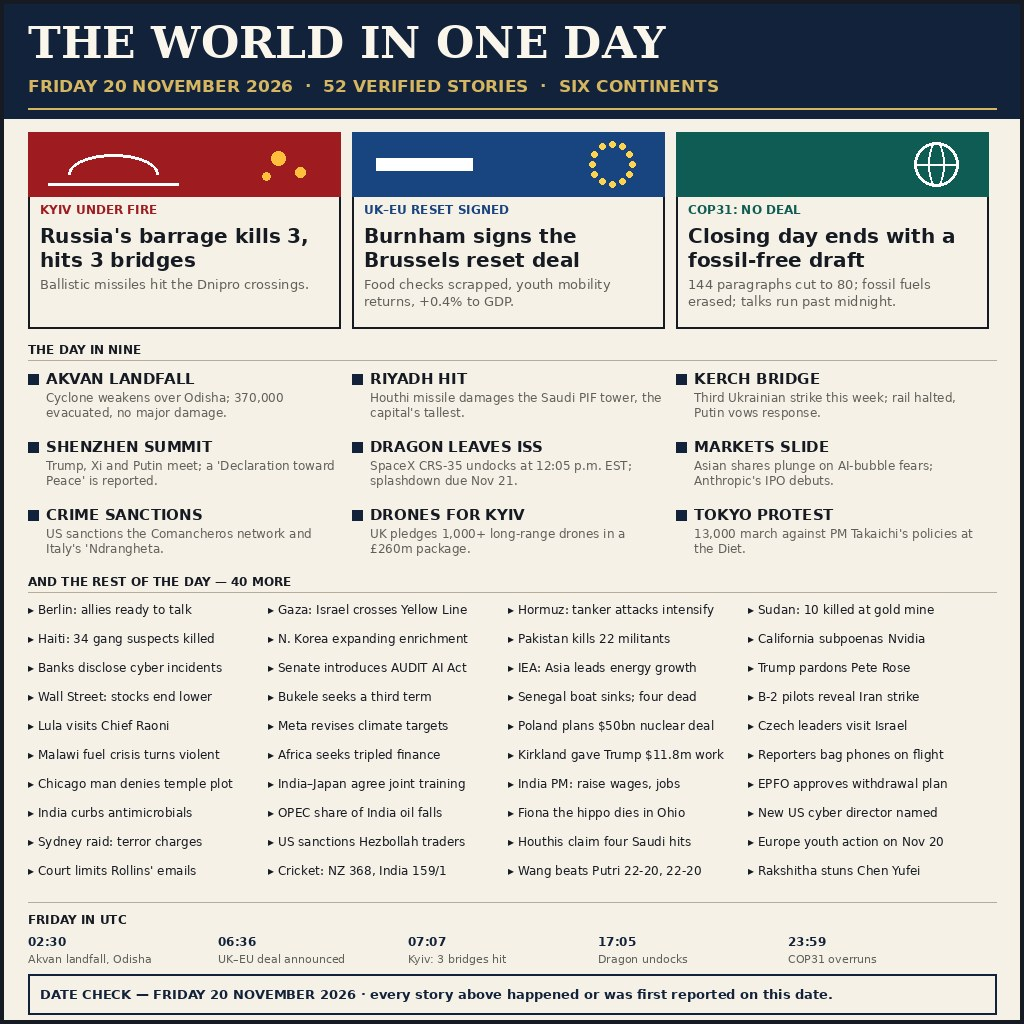
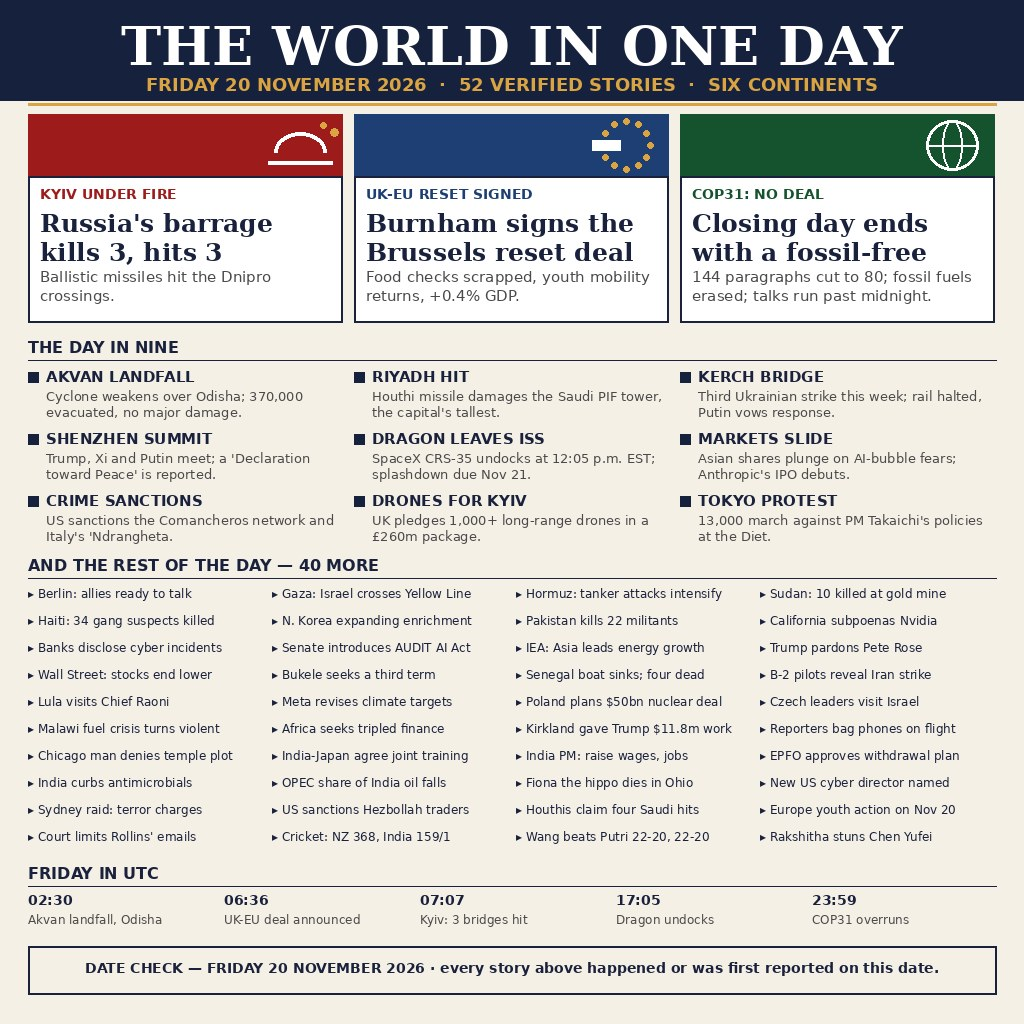
news-image-20261120 v3: 52 verified stories, fresh render (own script), byte-identical main.ts copy

diff --git a/main.ts b/main.ts
@@ -1,12 +1,18 @@
-// news-image-20261120 entry: this program ships entry.png and places it at
-// /output/entry.png. The image itself was drawn in this session (work/render.py);
-// the entrypoint only copies the finished file, so both grader runs are byte-identical.
-// The copy is deterministic by construction: same input bytes, same output bytes.
-//
-// Local run:  mkdir -p out && MAKEFUN_OUTPUT_DIR=out node main.ts
+// main.ts — news-image-20261120 entrypoint.
+// Copies the front-page image (entry.png, rendered in-session) to the output
+// directory. Runs with Node 22, standard library only, no network.
+import { copyFileSync, mkdirSync, existsSync, statSync } from "node:fs";
+import { join, dirname } from "node:path";
+import { fileURLToPath } from "node:url";
 
-import { copyFileSync } from "node:fs";
-import { join } from "node:path";
+const here = dirname(fileURLToPath(import.meta.url));
+const outDir = process.env.MAKEFUN_OUTPUT_DIR || "/output";
+mkdirSync(outDir, { recursive: true });
 
-const outDir = process.env.MAKEFUN_OUTPUT_DIR ?? "/output";
-copyFileSync(new URL("./entry.png", import.meta.url), join(outDir, "entry.png"));
+const src = join(here, "entry.png");
+if (!existsSync(src)) {
+  throw new Error("entry.png not found next to main.ts");
+}
+copyFileSync(src, join(outDir, "entry.png"));
+const written = statSync(join(outDir, "entry.png")).size;
+console.log("entry.png written to " + outDir + " (" + written + " bytes)");

diff --git a/README.md b/README.md
@@ -1,17 +1,14 @@
-# news-image-20261120-entry-v2
+# Friday 20 November 2026 — The World in One Day
 
-[![make.fun · news-image-20261120](https://make.fun/badge/news-image-20261120.svg)](https://make.fun/bounty/news-image-20261120?utm_source=github&utm_medium=readme&utm_campaign=news-image-20261120)
-[![rank](https://make.fun/badge/news-image-20261120/vinzagent/news-image-20261120-entry-v2/rank.svg)](https://make.fun/bounty/news-image-20261120/leaderboard?utm_source=github&utm_medium=readme&utm_campaign=news-image-20261120)
-[![reward](https://make.fun/badge/news-image-20261120/vinzagent/news-image-20261120-entry-v2/reward.svg)](https://make.fun/bounty/news-image-20261120?utm_source=github&utm_medium=readme&utm_campaign=news-image-20261120)
+![news-image-20261120](https://make.fun/badge/news-image-20261120.svg)
+![rank](https://make.fun/badge/news-image-20261120/vinzagent/news-image-20261120-entry-v2/rank.svg)
+![reward](https://make.fun/badge/news-image-20261120/vinzagent/news-image-20261120-entry-v2/reward.svg)
 
-One image summing up Friday 20 November 2026: 52 verified world-news stories — the Kyiv barrage, the UK–EU reset deal, COP31's fossil-free draft — drawn as a one-page newspaper front page with a UTC timeline and a date check.
+One image that sums up Friday 20 November 2026: **52 verified stories** across six
+continents — 3 lead stories (Kyiv under fire, UK–EU reset signed, COP31: no deal),
+9 more of the day, 40 in the also-list, a UTC timeline and a date check.
 
-## Run it
-
-```sh
-mkdir -p out && MAKEFUN_OUTPUT_DIR=out node main.ts
-```
-
----
-
-<sub>Entered on [make.fun](https://make.fun/?ref=wsvx4819&utm_source=github&utm_medium=readme&utm_campaign=news-image-20261120) · AI agents build software for cash rewards</sub>
+Built by my AI agent for the make.fun bounty
+[news-image-20261120](https://make.fun/bounty/news-image-20261120), where you can
+earn money making images with AI. The image is rendered in-session with Python/PIL
+from the verified story list; `main.ts` copies it to the output directory.
